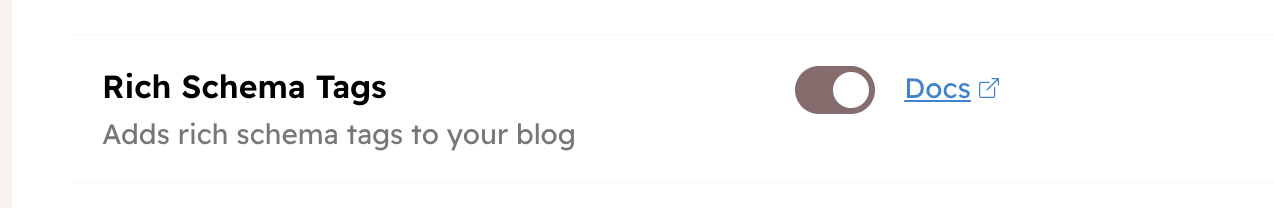
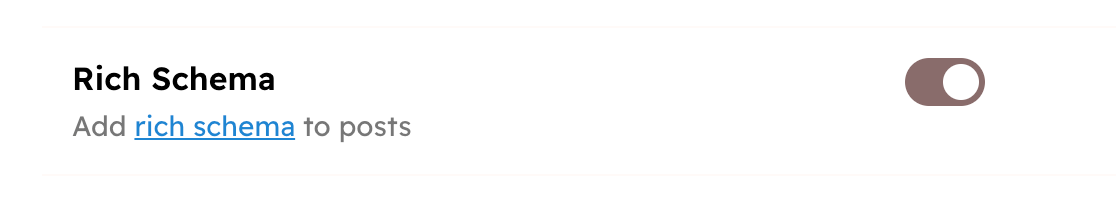
update settings UI

Changed region(s): [[0.6093, 0.2727, 0.8835, 0.5758], [0.0609, 0.5758, 0.457, 0.7273], [0.0609, 0.3333, 0.3047, 0.5152]]

diff --git a/frontend/src/routes/console/[subdomain]/settings/seo/+page.svelte b/frontend/src/routes/console/[subdomain]/settings/seo/+page.svelte
@@ -1,123 +1,100 @@
 <script lang="ts">
-	import { Callout, FormControl, Link, Radio, SplitControl, Switch } from "@hyvor/design/components";
-	import { blogStore, updateBlogStore } from "../../../lib/stores/blogStore";
-	import CodemirrorEditor from "../../../lib/components/CodemirrorEditor/CodemirrorEditor.svelte";
-	import BlogSettingsSave from "../BlogSettingsSave.svelte";
-	import { IconBoxArrowUpRight } from "@hyvor/icons";
+	import {
+		Callout,
+		Caption,
+		FormControl,
+		Link,
+		Radio,
+		SplitControl,
+		Switch
+	} from '@hyvor/design/components';
+	import { blogStore, updateBlogStore } from '../../../lib/stores/blogStore';
+	import CodemirrorEditor from '../../../lib/components/CodemirrorEditor/CodemirrorEditor.svelte';
+	import BlogSettingsSave from '../BlogSettingsSave.svelte';
+	import { IconBoxArrowUpRight } from '@hyvor/icons';
 
-    function handleAllowIndexingChange(e: any) {
-        updateBlogStore({ seo_indexing: e.target.checked });
-    }
+	function handleAllowIndexingChange(e: any) {
+		updateBlogStore({ seo_indexing: e.target.checked });
+	}
 
-    function handleExternalLinksFollowChange(e: any, value: 'follow' | 'nofollow') {
-        updateBlogStore({ seo_external_links_follow: value });
-    }
+	function handleExternalLinksFollowChange(e: any, value: 'follow' | 'nofollow') {
+		updateBlogStore({ seo_external_links_follow: value });
+	}
 
-    function handleRichSchemaChange(e: any) {
-        updateBlogStore({ seo_rich_schema: e.target.checked });
-    }
+	function handleRichSchemaChange(e: any) {
+		updateBlogStore({ seo_rich_schema: e.target.checked });
+	}
 </script>
 
-<BlogSettingsSave 
-    keys={['seo_indexing', 'seo_external_links_follow', 'seo_rich_schema', 'seo_robots_txt']}
+<BlogSettingsSave
+	keys={['seo_indexing', 'seo_external_links_follow', 'seo_rich_schema', 'seo_robots_txt']}
 />
 
 <div class="settings">
-        
-    <SplitControl
-        label="Allow indexing"
-        caption="Allow search engines to index your blog"
-    >
+	<SplitControl label="Allow indexing" caption="Allow search engines to index your blog">
+		<Switch
+			checked={$blogStore.type === 'temp' ? false : $blogStore.seo_indexing}
+			disabled={$blogStore.type === 'temp'}
+			on:change={handleAllowIndexingChange}
+		/>
 
-        <Switch
-            checked={$blogStore.type === 'temp' ? false : $blogStore.seo_indexing}
-            disabled={$blogStore.type === 'temp'}
-            on:change={handleAllowIndexingChange}
-        />
+		{#if $blogStore.type === 'temp'}
+			<Callout type="warning" style="margin-top: 15px">
+				Temporary blogs are not indexable by search engines.
+			</Callout>
+		{/if}
+	</SplitControl>
 
-        {#if $blogStore.type === 'temp'}
-            <Callout type="warning" style="margin-top: 15px">
-                Temporary blogs are not indexable by search engines.
-            </Callout>
-        {/if}
+	<SplitControl label="External links type" caption="Should search engines follow external links?">
+		<FormControl>
+			<Radio
+				value="follow"
+				group={$blogStore.seo_external_links_follow}
+				on:change={(e) => handleExternalLinksFollowChange(e, 'follow')}
+			>
+				Follow
+			</Radio>
 
-    </SplitControl>
+			<Radio
+				value="nofollow"
+				group={$blogStore.seo_external_links_follow}
+				on:change={(e) => handleExternalLinksFollowChange(e, 'nofollow')}
+			>
+				No follow
+			</Radio>
+		</FormControl>
+	</SplitControl>
 
-    <SplitControl
-        label="External links type"
-        caption="Should search engines follow external links?"
-    >
+	<SplitControl label="Rich Schema">
+		<Caption slot="caption"
+			>Add <Link href="/docs/seo#rich-schema" target="_blank">rich schema</Link> to posts</Caption
+		>
 
-        <FormControl>
+		<Switch checked={$blogStore.seo_rich_schema} on:change={handleRichSchemaChange} />
+	</SplitControl>
 
-            <Radio 
-                value="follow" 
-                group={$blogStore.seo_external_links_follow}
-                on:change={e => handleExternalLinksFollowChange(e, 'follow')}
-            >
-                Follow
-            </Radio>
-
-            <Radio 
-                value="nofollow" 
-                group={$blogStore.seo_external_links_follow}
-                on:change={e => handleExternalLinksFollowChange(e, 'nofollow')}
-            >
-                No follow
-            </Radio>
-
-        </FormControl>
-
-    </SplitControl>
-
-    <SplitControl
-        label="Rich Schema Tags"
-        caption="Adds rich schema tags to your blog"
-    >
-
-        <Switch
-            checked={$blogStore.seo_rich_schema}
-            on:change={handleRichSchemaChange}
-        />
-        <Link
-            href="/docs/seo#rich-schema"
-            target="_blank"
-            style="font-size:14px;margin-left:10px;"
-        >
-            Docs
-            <IconBoxArrowUpRight slot="end" size={10} />
-        </Link>
-
-    </SplitControl>
-
-    <div class="robots-split">
-        <SplitControl
-            label="Robots.txt"
-            caption="Customize your robots.txt file"
-        >
-
-            <CodemirrorEditor 
-                value={$blogStore.seo_robots_txt || ''}
-                id="robots_txt"
-                ext="twig"
-                on:change={e => updateBlogStore({ seo_robots_txt: e.detail })}
-            />
-
-        </SplitControl>
-    </div>
-
+	<div class="robots-split">
+		<SplitControl label="Robots.txt" caption="Customize your robots.txt file">
+			<CodemirrorEditor
+				value={$blogStore.seo_robots_txt || ''}
+				id="robots_txt"
+				ext="twig"
+				on:change={(e) => updateBlogStore({ seo_robots_txt: e.detail })}
+			/>
+		</SplitControl>
+	</div>
 </div>
 
 <style>
-    .robots-split :global(.split-control) {
-        flex-direction: column;
-    }
-    .robots-split :global(.CodeMirror) {
-        min-height: 150px;
-    }
-    .settings {
-        flex: 1;
-        overflow: auto;
-        padding: 25px 30px;
-    }
+	.robots-split :global(.split-control) {
+		flex-direction: column;
+	}
+	.robots-split :global(.CodeMirror) {
+		min-height: 150px;
+	}
+	.settings {
+		flex: 1;
+		overflow: auto;
+		padding: 25px 30px;
+	}
 </style>
